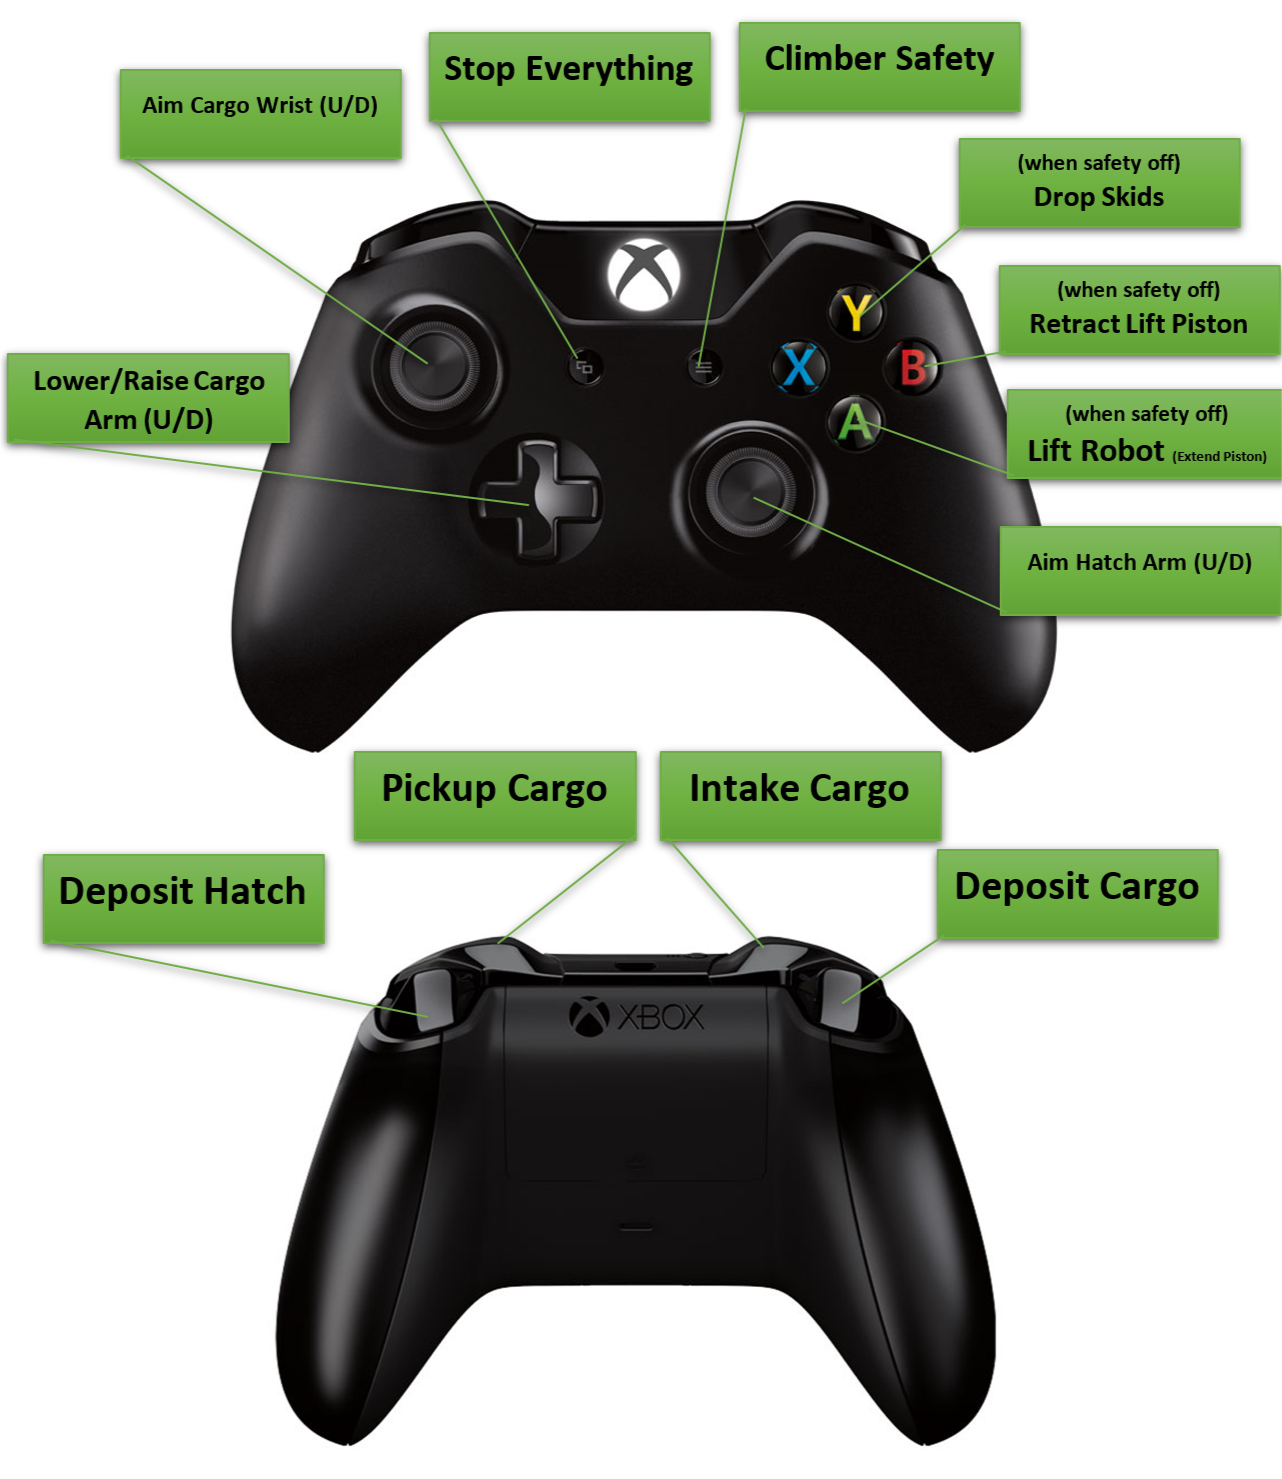
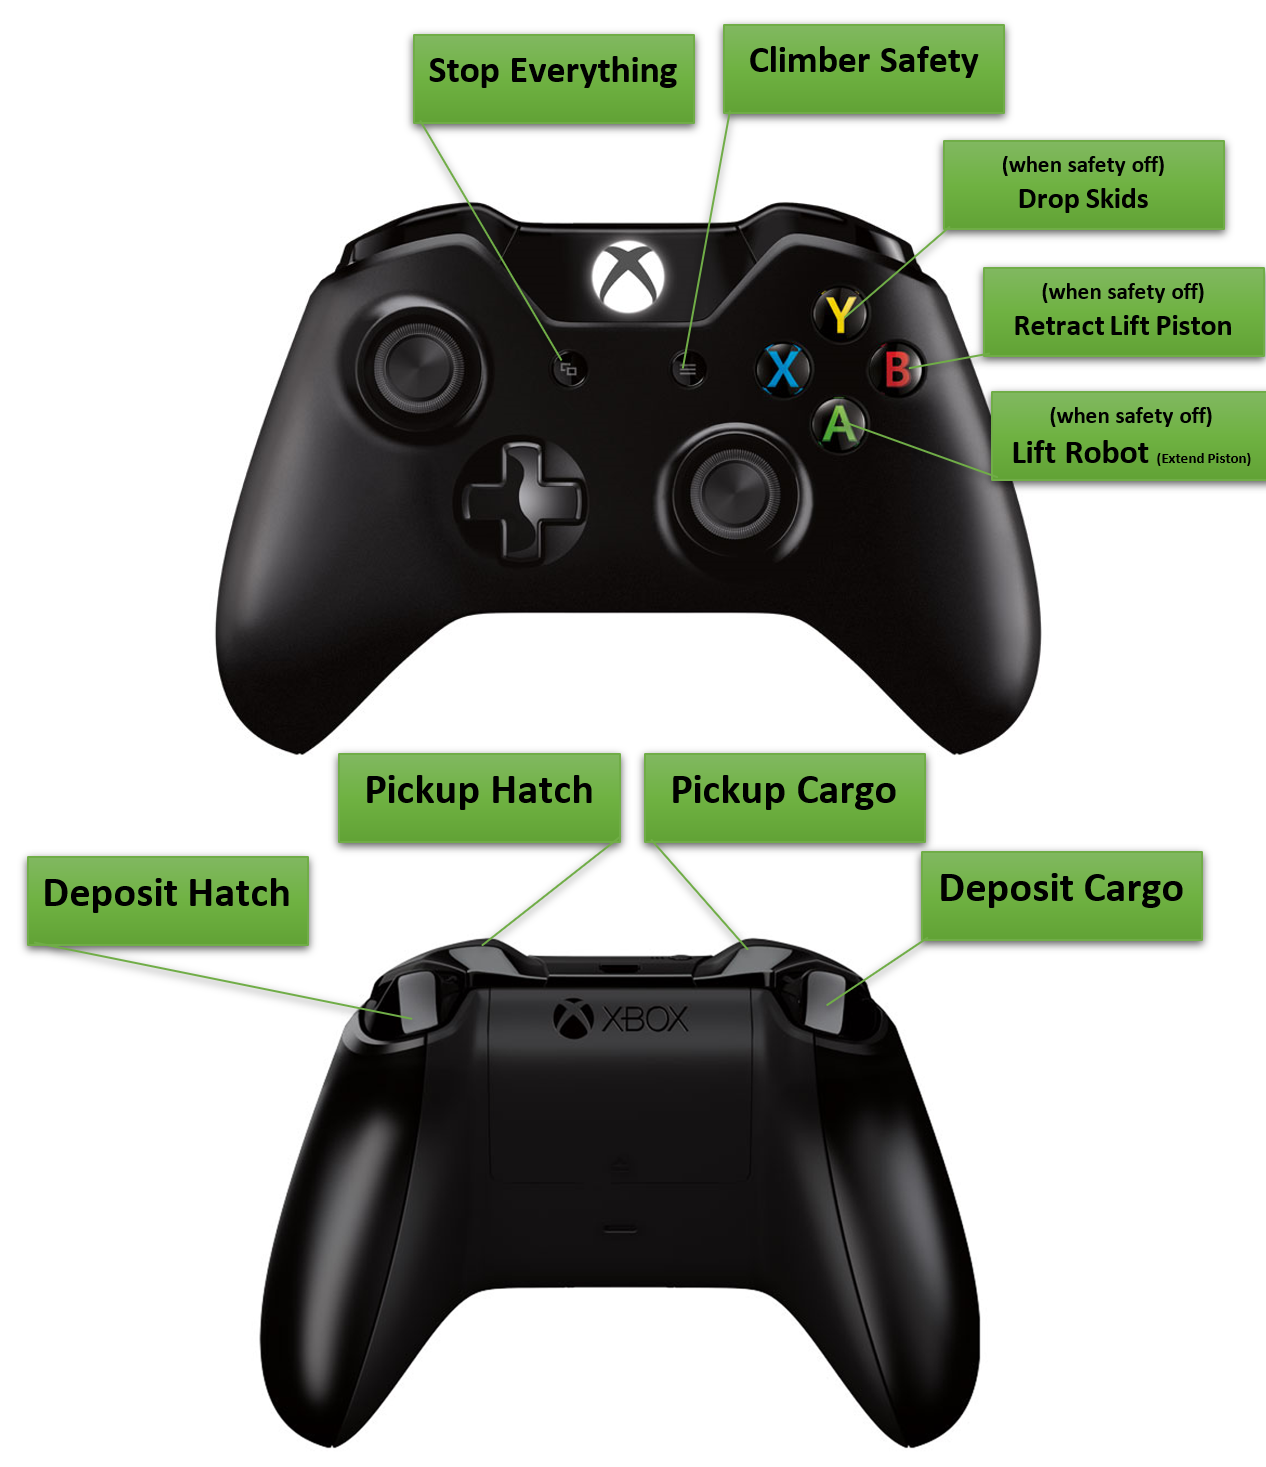
Changed manipulator controller mappings and removed manual control of subsystems

diff --git a/src/main/java/frc/robot/OI.java b/src/main/java/frc/robot/OI.java
@@ -35,54 +35,47 @@ public class OI {
          * 
          * Manipulator
          * -----------
-         * LB (pressed) -> Intake Cargo
-         * RB (pressed) -> Pickup Cargo
+         * LB (held) -> Pickup Cargo
+         * RB (pressed) -> Pickup Hatch
          * LT (pressed) -> Deposit Cargo
          * RT (pressed) -> Deposit Hatch
-         * Left Thumbstick -> Aim Cargo Wrist (Up/Down)
-         * Right Thumbstick -> Aim Hatch Arm (Up/Down
-         * Select Button (pressed) (Small Button on top left of controller) -> Stop Everything
-         * Pause Button (held) (Small Button on top right of controller) -> Disables Climber Safety
+         * SELECT Button (pressed) (Small Button on top left of controller) -> Stop Everything
+         * PAUSE Button (held) (Small Button on top right of controller) -> Disables Climber Safety
          * PAUSE + Y (pressed) -> drop skids
          * PAUSE + B (pressed) -> retract lift piston
          * PAUSE + A (pressed) -> Lift Robot
-         * UP D_PAD (held) -> Raises cargo arm
-         * DOWN D_PAD (held) -> Lowers cargo arm
          */
 
         // Driver controller is plugged into port 0
         driverController = new EnhancedXboxController(0);
 
-        driverController.BACK.whenPressed(new StopEverything()); // back button to emergency stop
+        driverController.BACK.whenPressed(new StopEverything()); // SELECT to stop everything
         driverController.RB.whenPressed(new EnableTurboDrivetrain()); // RB to turbo
         driverController.LB.whenPressed(new DisableTurboDrivetrain()); // LB to precise
 
         // Manipulator controler is plugged into port 1
         manipulatorController = new EnhancedXboxController(1);
 
-        manipulatorController.BACK.whenPressed(new StopEverything()); // back button to emergency stop
-        manipulatorController.START.whenPressed(new DisableClimberSafety()); // allow HAB commands to work (while holding START)
-        manipulatorController.START.whenReleased(new EnableClimberSafety()); // prevent HAB commands from working (when START released)
+        manipulatorController.BACK.whenPressed(new StopEverything()); // SELECT to stop everything
+        manipulatorController.START.whenPressed(new DisableClimberSafety()); // allow HAB commands to work (while holding PAUSE)
+        manipulatorController.START.whenReleased(new EnableClimberSafety()); // prevent HAB commands from working (when PAUSE released)
 
-        manipulatorController.Y.whenPressed(new DeploySkids()); // press Y while holding START to deploy skids for climbing
-        manipulatorController.B.whenPressed(new RetractClimber()); // press B while holding START to retract climbing piston
-        manipulatorController.A.whenPressed(new ExtendClimber()); // press A while holding START to extend climbing piston
-        
-        manipulatorController.DPAD_DOWN.whileHeld(new LowerCargoIntake()); // DPAD-DOWN lowers cargo wrist towards floor
-        manipulatorController.DPAD_UP.whileHeld(new RaiseCargoIntake()); // DPAD-UP raises cargo wrist away from floor
+        manipulatorController.Y.whenPressed(new DeploySkids()); // press Y while holding PAUSE to deploy skids for climbing
+        manipulatorController.B.whenPressed(new RetractClimber()); // press B while holding PAUSE to retract climbing piston
+        manipulatorController.A.whenPressed(new ExtendClimber()); // press A while holding PAUSE to extend climbing piston
         
         manipulatorController.LT.whenPressed(new DepositCargo()); // LT to deposit cargo
         manipulatorController.RT.whenPressed(new DepositHatch()); // RT to deposit hatch
 
-        manipulatorController.LB.whenPressed(new IntakeCargo()); // LB to manually intake cargo
-        manipulatorController.RB.whenPressed(new PickupCargo()); // RB to automatically pickup cargo from floor
+        manipulatorController.LB.whenPressed(new PickupCargo()); // LB to automatically pickup cargo from floor
+        manipulatorController.LB.whenReleased(new ResetCargoManipulator()); // release LB to reset cargo manipulator
+        manipulatorController.RB.whenPressed(new BringToFloorHatch()); // RB to automatically pickup hatch from floor
         
         // SmartDashboard Buttons
         SmartDashboard.putData("Stop Drivetrain", new StopDrivetrain());
         SmartDashboard.putData("Stop Cargo Manipulator", new StopCargoManipulator());
         SmartDashboard.putData("Stop Hatch Manipulator", new StopHatchManipulator());
         SmartDashboard.putData("** STOP EVERYTHING **", new StopEverything());
-        SmartDashboard.putData("Operate Drivetrain", new OperateCargo());
         SmartDashboard.putData("Forward Drivetrain", new ForwardDrivetrain());
         SmartDashboard.putData("Backward Drivetrain", new BackwardDrivetrain());
         SmartDashboard.putData("Rotate Clockwise Drivetrain", new RotateClockwiseDrivetrain());
@@ -103,7 +96,6 @@ public class OI {
         SmartDashboard.putData("Pickup Cargo", new PickupCargo());
         SmartDashboard.putData("Stop Cargo Intake", new StopCargoIntake());
         SmartDashboard.putData("Retract Cargo Arm", new RetractCargoArm());
-        SmartDashboard.putData("Rotate Cargo Intake", new RaiseCargoIntake());
         SmartDashboard.putData("Reset Cargo Manipulator", new ResetCargoManipulator());
         SmartDashboard.putData("Deploy Skids", new DeploySkids());
         SmartDashboard.putData("Extend Climber", new ExtendClimber());

diff --git a/src/main/java/frc/robot/subsystems/Drivetrain.java b/src/main/java/frc/robot/subsystems/Drivetrain.java
@@ -53,7 +53,6 @@ public class Drivetrain extends PIDSubsystem implements DriveTrainInterface {
         super(0.02, 0, 0); // TODO: Test to find ideal values
 
         driveRight = new GTalonSRX(RobotMap.rightMotor);
-        driveRight.setInverted(false);
         driveRight.setSensor(FeedbackDevice.CTRE_MagEncoder_Relative);
         driveRight.setPID(0.02, 0, 0, 1); // TODO: Test to find ideal values
         driveRight.setRamp(0.5); // TODO: Test to find ideal value
@@ -62,8 +61,11 @@ public class Drivetrain extends PIDSubsystem implements DriveTrainInterface {
         GTalonSRX rightSlave1 = new GTalonSRX(RobotMap.rightMotor, RobotMap.rightSlave1);
         GTalonSRX rightSlave2 = new GTalonSRX(RobotMap.rightMotor, RobotMap.rightSlave2);
 
+        driveRight.setInverted(false);
+        rightSlave1.setInverted(false);
+        rightSlave2.setInverted(false);
+
         driveLeft = new GTalonSRX(RobotMap.leftMotor);
-        driveLeft.setInverted(true);
         driveLeft.setSensor(FeedbackDevice.CTRE_MagEncoder_Relative);
         driveLeft.setPID(0.02, 0, 0, 1); // TODO: Test to find ideal values
         driveLeft.setRamp(0.5); // TODO: Test to find ideal value
@@ -72,6 +74,7 @@ public class Drivetrain extends PIDSubsystem implements DriveTrainInterface {
         GTalonSRX leftSlave1 = new GTalonSRX(RobotMap.leftMotor, RobotMap.leftSlave1);
         GTalonSRX leftSlave2 = new GTalonSRX(RobotMap.leftMotor, RobotMap.leftSlave2);
 
+        driveLeft.setInverted(true);
         leftSlave1.setInverted(true);
         leftSlave2.setInverted(true);
 
@@ -94,7 +97,7 @@ public class Drivetrain extends PIDSubsystem implements DriveTrainInterface {
         // Set the default command for a subsystem here.
         // setDefaultCommand(new MySpecialCommand());
 
-        setDefaultCommand(new OperateCargo());
+        setDefaultCommand(new OperateDrivetrain());
     }
 
     @Override

diff --git a/src/main/java/frc/robot/subsystems/CargoManipulator.java b/src/main/java/frc/robot/subsystems/CargoManipulator.java
@@ -21,7 +21,10 @@ public class CargoManipulator extends PIDSubsystem implements IPiston {
 
     public static final double DEFAULT_SPEED = 0.5;
     public static final double MAXIMUM_SPEED = 0.9;
+    public static final double INTAKE_SPEED = 0.7; // TODO: Test to find ideal intake speed value.
     public static final double RESTING_ANGLE = 0;
+    
+    public double shootingSpeed = DEFAULT_SPEED; 
 
     private Piston cargoPiston1;
     private Piston cargoPiston2;
@@ -45,6 +48,7 @@ public class CargoManipulator extends PIDSubsystem implements IPiston {
         
         cargoSpeedControllerWrist = new GTalonSRX(RobotMap.cargoWristMotor);
         cargoSpeedControllerWrist.setInverted(false);
+        cargoSpeedControllerWrist.useBrakeMode();
         
         cargoSpeedControllerRoller = new GTalonSRX(RobotMap.cargoRollerMotor);
         cargoSpeedControllerRoller.setInverted(false);
@@ -56,7 +60,7 @@ public class CargoManipulator extends PIDSubsystem implements IPiston {
      */
     @Override
     public void initDefaultCommand() {
-        setDefaultCommand(new OperateCargo());
+        setDefaultCommand(new ResetCargoManipulator());
     }
 
     /**

diff --git a/src/main/java/frc/robot/commands/DepositCargo.java b/src/main/java/frc/robot/commands/DepositCargo.java
@@ -17,18 +17,19 @@ public class DepositCargo extends Command {
     // Called just before this Command runs the first time
     @Override
     protected void initialize() {
+        setTimeout(1);
     }
 
     // Called repeatedly when this Command is scheduled to run
     @Override
     protected void execute() {
-        Robot.cargoManipulator.outtake(.8); // TODO: Calibrate these speeds.
+        Robot.cargoManipulator.outtake(Robot.cargoManipulator.shootingSpeed);
     }
 
     // Make this return true when this Command no longer needs to run execute()
     @Override
     protected boolean isFinished() {
-        return false; // TODO: Determine when the cargo has been fully ejected.
+        return isTimedOut() && !Robot.cargoManipulator.hasCargo();
     }
 
     // Called once after isFinished returns true

diff --git a/src/main/java/frc/robot/subsystems/HatchManipulator.java b/src/main/java/frc/robot/subsystems/HatchManipulator.java
@@ -37,7 +37,8 @@ public class HatchManipulator extends PIDSubsystem implements IPiston {
 
         hatchSpeedController = new GTalonSRX(RobotMap.hatchMotor1);
         hatchSpeedController.setInverted(false);
-        
+        hatchSpeedController.useBrakeMode();
+
         hatchPotentiometer = new AnalogPotentiometer(RobotMap.hatchPotentiometer, 360*10, 0);
         
     }
@@ -45,7 +46,7 @@ public class HatchManipulator extends PIDSubsystem implements IPiston {
     @Override
     public void initDefaultCommand() {
         // Set the default command for a subsystem here.
-        setDefaultCommand(new BringToStandardPositionHatch());
+        setDefaultCommand(new ResetHatchManipulator());
     }
 
     @Override

diff --git a/src/main/java/frc/robot/commands/PickupCargo.java b/src/main/java/frc/robot/commands/PickupCargo.java
@@ -1,6 +1,7 @@
 package frc.robot.commands;
 
 import edu.wpi.first.wpilibj.command.CommandGroup;
+import frc.robot.subsystems.CargoManipulator;
 
 /**
  * Brings the cargo manipulator arm to the floor, aligns the wrist, then takes the cargo and returns to standard upright position.
@@ -10,10 +11,9 @@ public class PickupCargo extends CommandGroup {
 
     public PickupCargo() {
 
+        addSequential(new MoveCargoIntakeToAngle(CargoManipulator.RESTING_ANGLE));
         addSequential(new BringCargoArmToFloor());
-        addSequential(new LowerCargoIntake());
         addSequential(new IntakeCargo());
-        addSequential(new ResetCargoManipulator());
 
     } 
 }

diff --git a/src/main/java/frc/robot/commands/IntakeCargo.java b/src/main/java/frc/robot/commands/IntakeCargo.java
@@ -2,6 +2,7 @@ package frc.robot.commands;
 
 import edu.wpi.first.wpilibj.command.Command;
 import frc.robot.Robot;
+import frc.robot.subsystems.CargoManipulator;
 
 /**
  * Starts Rollers to intake cargo
@@ -22,7 +23,7 @@ public class IntakeCargo extends Command {
     // Called repeatedly when this Command is scheduled to run
     @Override
     protected void execute() {
-        Robot.cargoManipulator.intake(.7); // TODO: Calibrate this speed.
+        Robot.cargoManipulator.intake(CargoManipulator.INTAKE_SPEED);
     }
 
     // Make this return true when this Command no longer needs to run execute()
